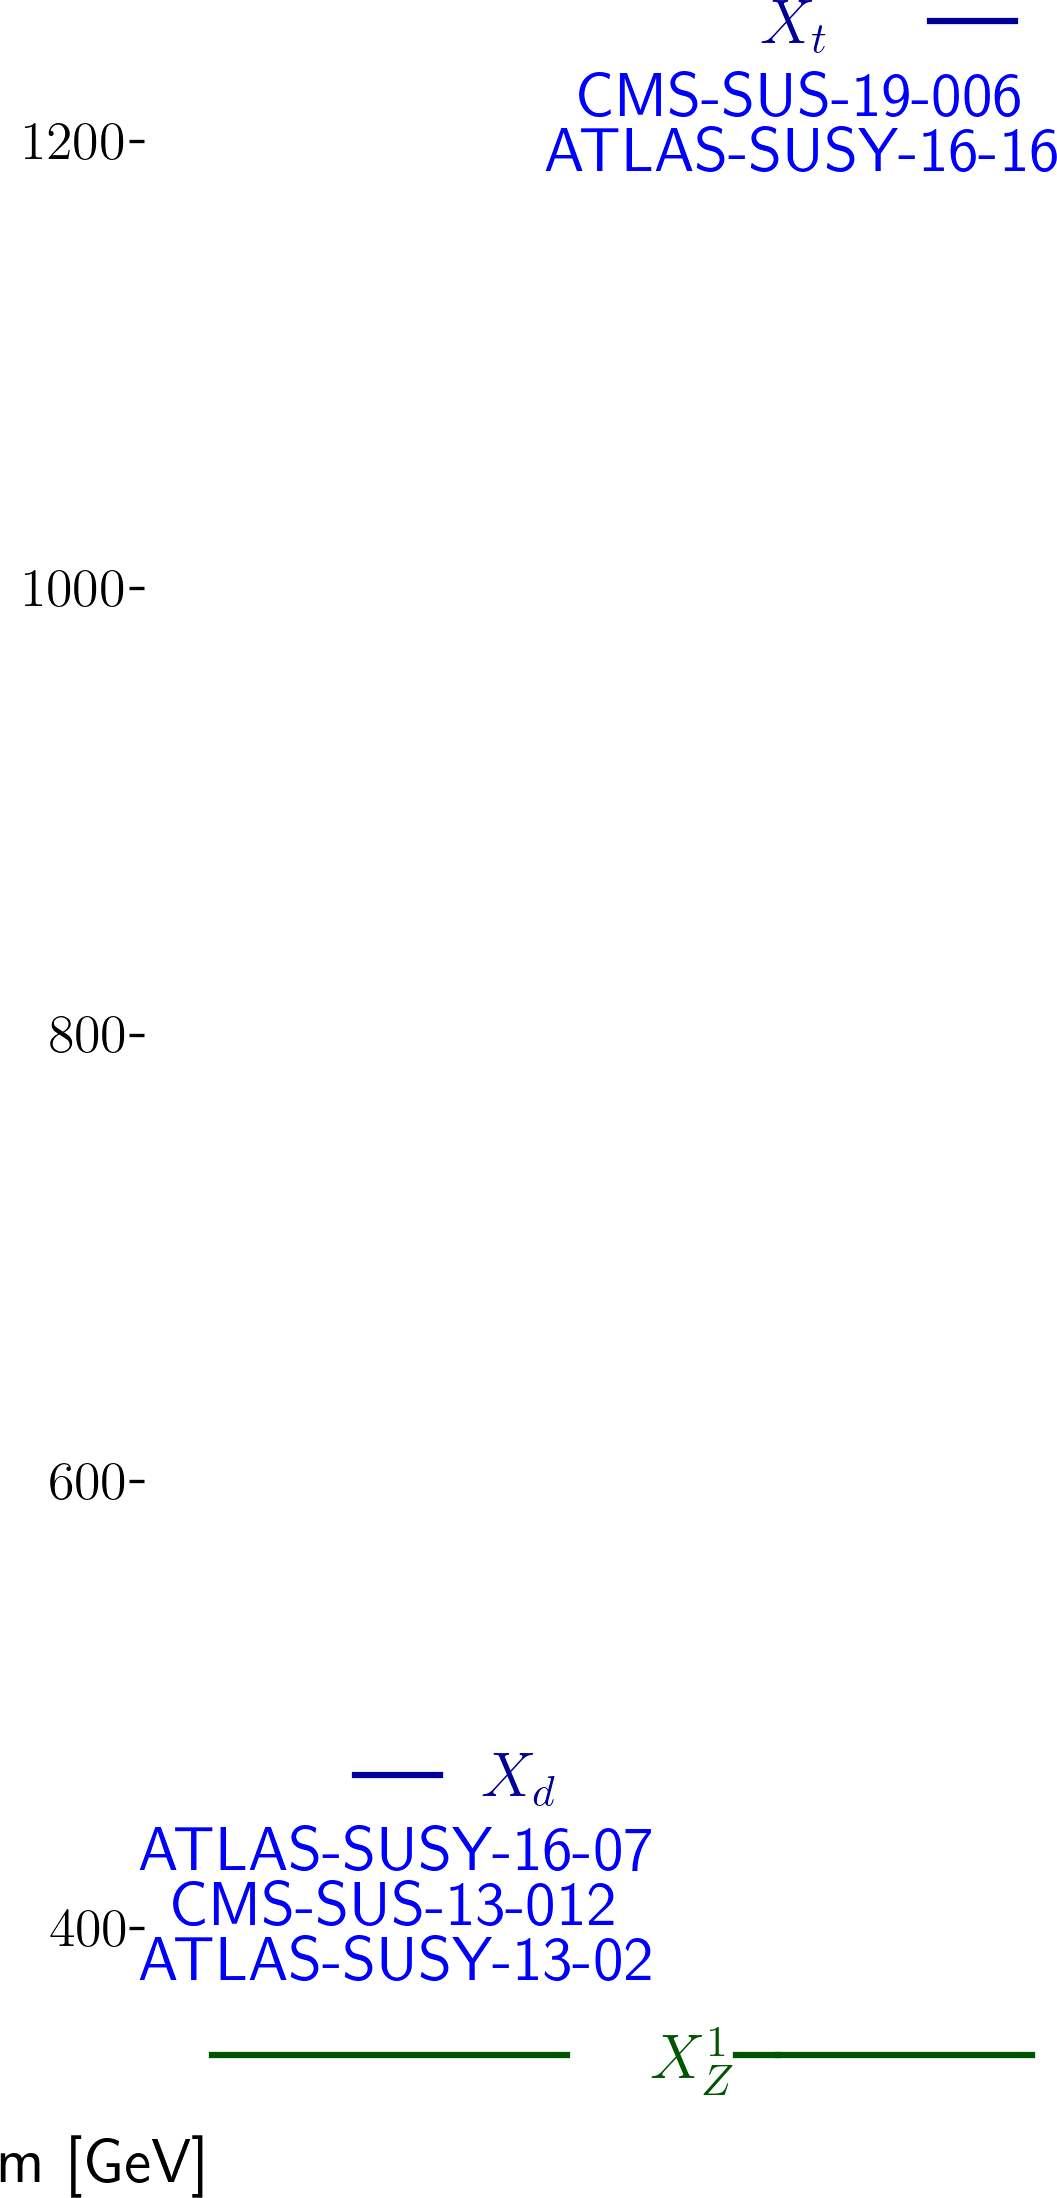
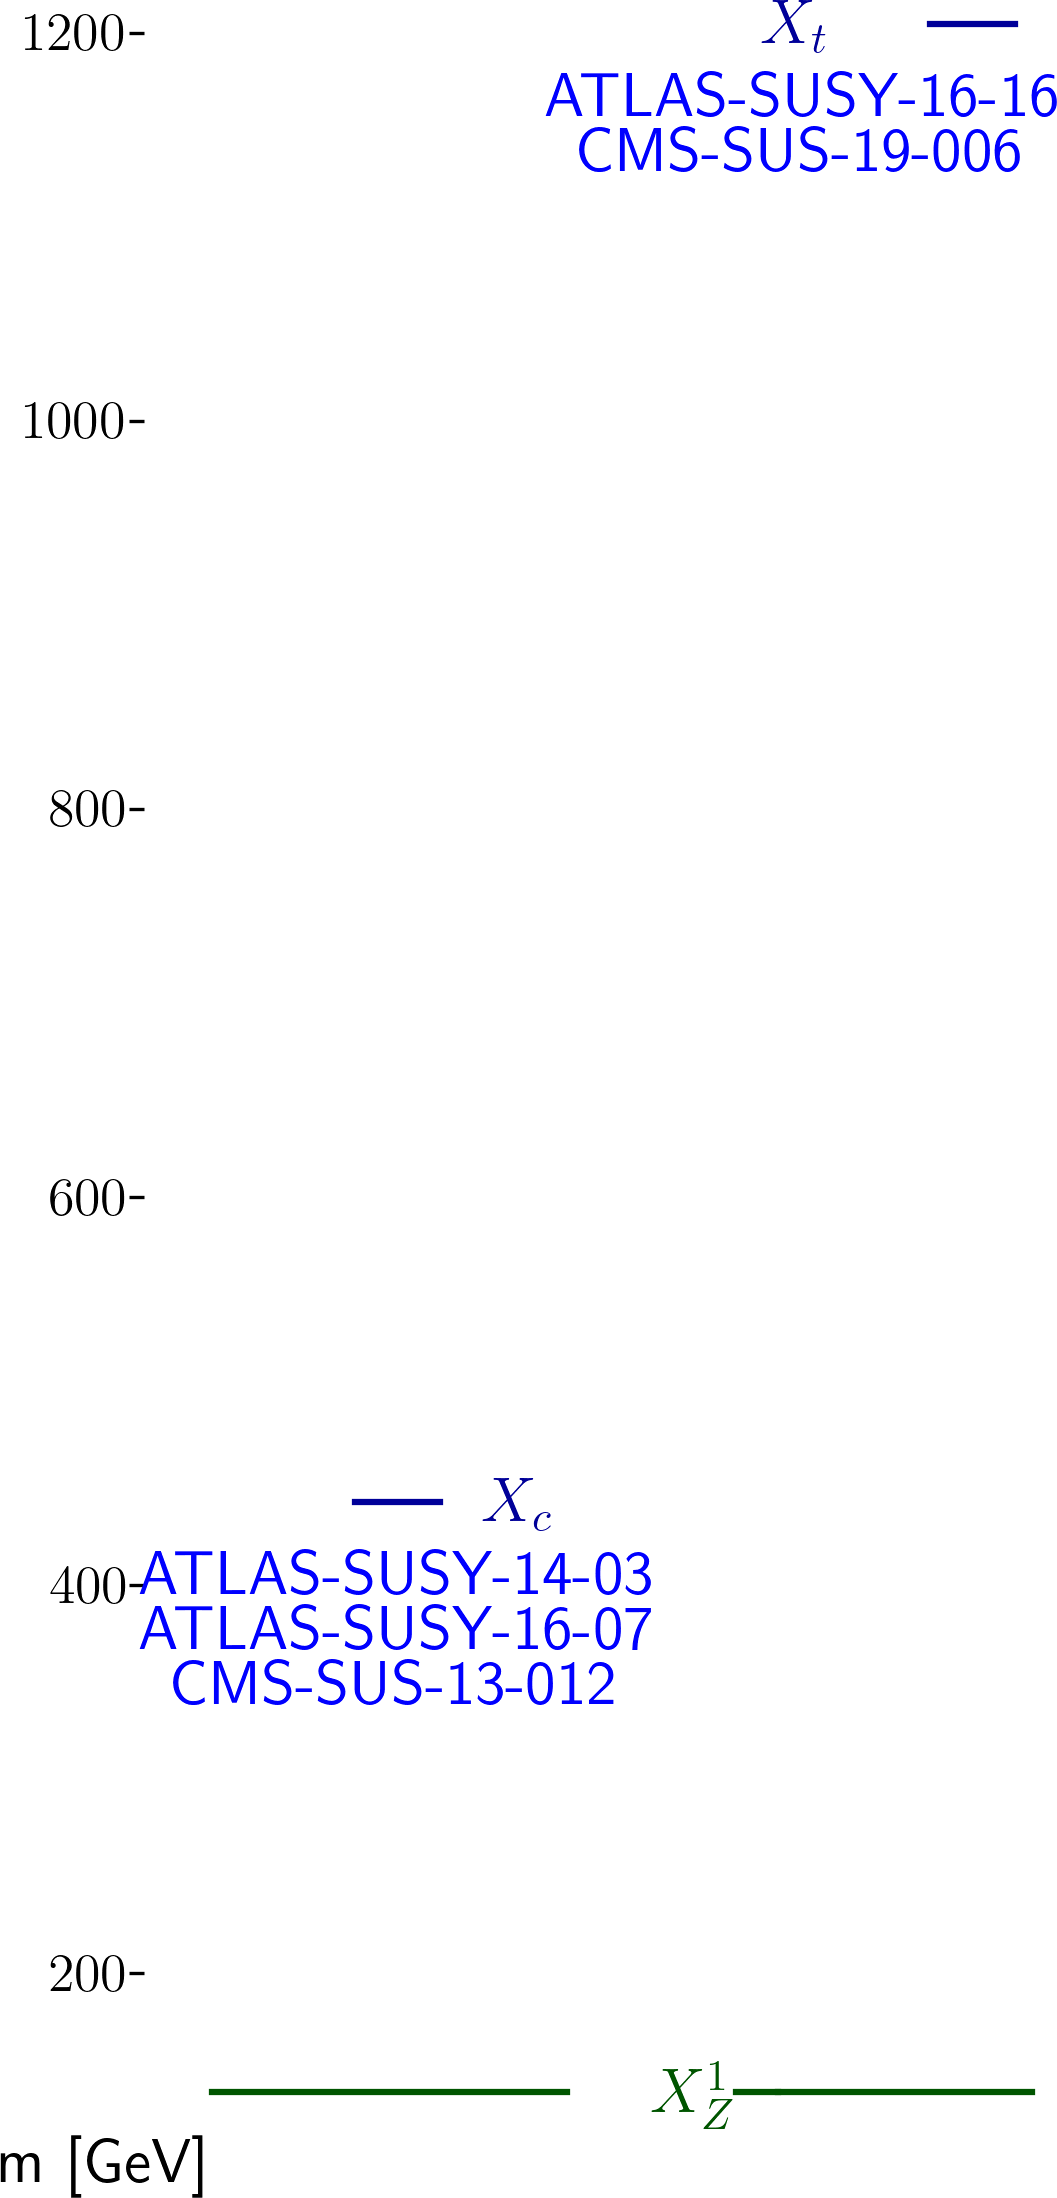
automated update by plotHiscore.py to /scratch-cbe/users/wolfgan.waltenberger/git/smodels.github.io/protomodels

diff --git a/protomodels/2020_PioneerStudy/closure_sampled10/index.html b/protomodels/2020_PioneerStudy/closure_sampled10/index.html
@@ -1,30 +1,30 @@
 <html>
 <body>
 <center>
-<table><td><h1>Current best protomodel: <i>K</i>=7.85</h1><td><img height=60px src=https://smodels.github.io/pics/banner.png></table>
+<table><td><h1>Current best protomodel: <i>K</i>=10.42</h1><td><img height=60px src=https://smodels.github.io/pics/banner.png></table>
 </center>
-<b><a href=./hiscore.slha>ProtoModel</a> <a href=./pmodel.py>(dict)</a> produced with <a href=https://smodels.github.io/docs/Validation124scaled10>database v1.2.4scaled10</a>, combination strategy <a href=./matrix_aggressive.png>aggressive</a> in walker 20 step 305.</b> <i>K</i> plots for: <a href=./M1000022.png?15051670>X<sub>Z</sub><sup>1</sup></a>, <a href=./M1000006.png?15051670>X<sub>t</sub></a>, <a href=./M1000001.png?15051670>X<sub>d</sub></a>. HPD plots for: <a href=./llhd1000006.png?15051670>X<sub>t</sub></a>, <a href=./llhd1000001.png?15051670>X<sub>d</sub></a>. SSM plots for: <a href=./ssm_-1000006_1000006.png?15051670>(x&#772;<sub>t</sub>,X<sub>t</sub>)</a><br>
+<b><a href=./hiscore.slha>ProtoModel</a> <a href=./pmodel.py>(dict)</a> produced with <a href=https://smodels.github.io/docs/Validation124scaled10>database v1.2.4scaled10</a>, combination strategy <a href=./matrix_aggressive.png>aggressive</a> in walker 40 step 575.</b> <i>K</i> plots for: <a href=./M1000022.png?15313475>X<sub>Z</sub><sup>1</sup></a>, <a href=./M1000006.png?15313475>X<sub>t</sub></a>, <a href=./M1000004.png?15313475>X<sub>c</sub></a>. HPD plots for: <a href=./llhd1000006.png?15313475>X<sub>t</sub></a>, <a href=./llhd1000004.png?15313475>X<sub>c</sub></a>. SSM plots for: <a href=./ssm_-1000006_1000006.png?15313475>(x&#772;<sub>t</sub>,X<sub>t</sub>)</a><br>
 <table width=80%>
 <tr><td>
-<br><b>14 predictions available. Highest r values are:</b><br><ul>
-<li><a href=http://cms-results.web.cern.ch/cms-results/public-results/publications/SUS-16-033/index.html>CMS-SUS-16-033</a>:T2 r=1.30, r<sub>exp</sub>=1.54<br>
-<li><a href=http://cms-results.web.cern.ch/cms-results/public-results/publications/SUS-16-049/index.html>CMS-SUS-16-049</a>:T2tt r=1.18, r<sub>exp</sub>=1.02<br>
-<li><a href=https://atlas.web.cern.ch/Atlas/GROUPS/PHYSICS/PAPERS/SUSY-2016-07/>ATLAS-SUSY-2016-07</a>:T2 r=1.14, r<sub>exp</sub>=1.42<br>
-<li><a href=http://cms-results.web.cern.ch/cms-results/public-results/publications/SUS-16-036/index.html>CMS-SUS-16-036</a>:T2 r=1.01, r<sub>exp</sub>=0.98<br>
-<li><a href=http://cms-results.web.cern.ch/cms-results/public-results/publications/SUS-16-033/index.html>CMS-SUS-16-033</a>:T2,T2tt r=0.81, r<sub>exp</sub>=1.37<br>
+<br><b>21 predictions available. Highest r values are:</b><br><ul>
+<li><a href=http://cms-results.web.cern.ch/cms-results/public-results/publications/SUS-16-033/index.html>CMS-SUS-16-033</a>:T2 r=1.30, r<sub>exp</sub>=1.13<br>
+<li><a href=http://cms-results.web.cern.ch/cms-results/public-results/publications/SUS-16-036/index.html>CMS-SUS-16-036</a>:T2 r=1.15, r<sub>exp</sub>=1.31<br>
+<li><a href=https://atlas.web.cern.ch/Atlas/GROUPS/PHYSICS/PAPERS/SUSY-2014-03/>ATLAS-SUSY-2014-03</a>:TScharm r=0.71, r<sub>exp</sub>=0.48<br>
+<li><a href=https://atlas.web.cern.ch/Atlas/GROUPS/PHYSICS/PAPERS/SUSY-2016-07/>ATLAS-SUSY-2016-07</a>:T2 r=0.67, r<sub>exp</sub>=1.03<br>
+<li><a href=https://atlas.web.cern.ch/Atlas/GROUPS/PHYSICS/PAPERS/SUSY-2016-26/>ATLAS-SUSY-2016-26</a>:T2cc r=0.60, r<sub>exp</sub>=N/A<br>
 </ul>
 <td><br><b>K values without analyses: (contribution)</b><br>
 <ul>
-<li> <a href=https://atlas.web.cern.ch/Atlas/GROUPS/PHYSICS/PAPERS/SUSY-2013-02/>ATLAS-SUSY-2013-02</a>: 3.47 (14%)
-<li> <a href=http://cms-results.web.cern.ch/cms-results/public-results/publications/SUS-19-006/index.html>CMS-SUS-19-006</a>: 2.63 (16%)
-<li> <a href=https://twiki.cern.ch/twiki/bin/view/CMSPublic/PhysicsResultsSUS13012>CMS-SUS-13-012</a>: 2.63 (16%)
-<li> <a href=https://atlas.web.cern.ch/Atlas/GROUPS/PHYSICS/PAPERS/SUSY-2016-07/>ATLAS-SUSY-2016-07</a>: -0.31 (25%)
-<li> <a href=https://atlas.web.cern.ch/Atlas/GROUPS/PHYSICS/PAPERS/SUSY-2016-16/>ATLAS-SUSY-2016-16</a>: -1.18 (28%)
-<td><img width=600px src=./texdoc.png?1608051670>
-<br><font size=-1>Last updated: Tue Dec 15 18:01:10 2020</font>
+<li> <a href=http://cms-results.web.cern.ch/cms-results/public-results/publications/SUS-19-006/index.html>CMS-SUS-19-006</a>: 6.81 (13%)
+<li> <a href=https://twiki.cern.ch/twiki/bin/view/CMSPublic/PhysicsResultsSUS13012>CMS-SUS-13-012</a>: 6.58 (14%)
+<li> <a href=https://atlas.web.cern.ch/Atlas/GROUPS/PHYSICS/PAPERS/SUSY-2016-16/>ATLAS-SUSY-2016-16</a>: 4.37 (21%)
+<li> <a href=https://atlas.web.cern.ch/Atlas/GROUPS/PHYSICS/PAPERS/SUSY-2016-07/>ATLAS-SUSY-2016-07</a>: 3.63 (24%)
+<li> <a href=https://atlas.web.cern.ch/Atlas/GROUPS/PHYSICS/PAPERS/SUSY-2014-03/>ATLAS-SUSY-2014-03</a>: 2.46 (28%)
+<td><img width=600px src=./texdoc.png?1608313475>
+<br><font size=-1>Last updated: Fri Dec 18 18:44:35 2020</font>
 </table><table style="width:80%">
-<td width=45%><img height=580px src=./ruler.png?1608051670><td width=55%><img height=380px src=./decays.png?1608051670>
-<font size=-3><iframe type="text/html" height="220px" width="100%s" frameborder="0" src="./rawnumbers.html?1608051670"></iframe></font>
+<td width=45%><img height=580px src=./ruler.png?1608313475><td width=55%><img height=380px src=./decays.png?1608313475>
+<font size=-3><iframe type="text/html" height="220px" width="100%s" frameborder="0" src="./rawnumbers.html?1608313475"></iframe></font>
 </table>
 </body>
 </html>

diff --git a/protomodels/2020_PioneerStudy/closure_sampled10/rawnumbers.html b/protomodels/2020_PioneerStudy/closure_sampled10/rawnumbers.html
@@ -1,9 +1,9 @@
 <table>
 <tr><th>Analysis Name</th><th>Type</th><th>Dataset</th><th>Topos</th><th>Observed</th><th>Expected</th><th>Approx &sigma;</th><th>Particles</th><th>Signal</th>
 </tr>
-<tr><td><a href=https://atlas.web.cern.ch/Atlas/GROUPS/PHYSICS/PAPERS/SUSY-2013-02/>ATLAS-SUSY-2013-02</a></td><td>em</td> <td>SR6jtp</td><td>T2</td><td>2</td><td>4.9 +/- 1.6</td><td style="text-align:right">-1.1 &sigma;</td><td style="text-align:right">X<sub>d</sub></td><td style="text-align:right">0</td></tr>
-<tr><td><a href=https://atlas.web.cern.ch/Atlas/GROUPS/PHYSICS/PAPERS/SUSY-2016-07/>ATLAS-SUSY-2016-07</a></td><td>em</td> <td>2j_Meff_1200</td><td>T2</td><td>599</td><td>526 +/- 31</td><td style="text-align:right">1.9 &sigma;</td><td style="text-align:right">X<sub>d</sub></td><td style="text-align:right">40</td></tr>
-<tr><td><a href=https://atlas.web.cern.ch/Atlas/GROUPS/PHYSICS/PAPERS/SUSY-2016-16/>ATLAS-SUSY-2016-16</a></td><td>em</td> <td>tN_high</td><td>T2tt</td><td>9</td><td>3.8 +/- 1</td><td style="text-align:right">2.4 &sigma;</td><td style="text-align:right">X<sub>t</sub></td><td style="text-align:right">5</td></tr>
-<tr><td><a href=https://twiki.cern.ch/twiki/bin/view/CMSPublic/PhysicsResultsSUS13012>CMS-SUS-13-012</a></td><td>ul</td> <td>-</td><td>T2</td><td> 1077.9 fb </td><td> 850.1 fb</td><td style="text-align:right">0.5 &sigma;</td><td style="text-align:right">X<sub>d</sub></td><td style="text-align:right">2.66 fb</td></tr>
-<tr><td><a href=http://cms-results.web.cern.ch/cms-results/public-results/publications/SUS-19-006/index.html>CMS-SUS-19-006</a></td><td>ul</td> <td>-</td><td>T2tt</td><td> 4.6 fb </td><td> 2.0 fb</td><td style="text-align:right">2.6 &sigma;</td><td style="text-align:right">X<sub>t</sub></td><td style="text-align:right">2.62 fb</td></tr>
+<tr><td><a href=https://atlas.web.cern.ch/Atlas/GROUPS/PHYSICS/PAPERS/SUSY-2014-03/>ATLAS-SUSY-2014-03</a></td><td>em</td> <td>mCT200</td><td>TScharm</td><td>28</td><td>16 +/- 3</td><td style="text-align:right">2.4 &sigma;</td><td style="text-align:right">X<sub>c</sub></td><td style="text-align:right">-</td></tr>
+<tr><td><a href=https://atlas.web.cern.ch/Atlas/GROUPS/PHYSICS/PAPERS/SUSY-2016-07/>ATLAS-SUSY-2016-07</a></td><td>em</td> <td>5j_Meff_2000</td><td>T2</td><td>85</td><td>65 +/- 7</td><td style="text-align:right">1.9 &sigma;</td><td style="text-align:right">X<sub>c</sub></td><td style="text-align:right">13</td></tr>
+<tr><td><a href=https://atlas.web.cern.ch/Atlas/GROUPS/PHYSICS/PAPERS/SUSY-2016-16/>ATLAS-SUSY-2016-16</a></td><td>em</td> <td>tN_high</td><td>T2tt</td><td>8</td><td>3.8 +/- 1</td><td style="text-align:right">1.9 &sigma;</td><td style="text-align:right">X<sub>t</sub></td><td style="text-align:right">4</td></tr>
+<tr><td><a href=https://twiki.cern.ch/twiki/bin/view/CMSPublic/PhysicsResultsSUS13012>CMS-SUS-13-012</a></td><td>em</td> <td>6NJet8_500HT800 ...</td><td>T2</td><td>5</td><td>0.8 +/- 3.3</td><td style="text-align:right">1.2 &sigma;</td><td style="text-align:right">X<sub>c</sub></td><td style="text-align:right">0</td></tr>
+<tr><td><a href=http://cms-results.web.cern.ch/cms-results/public-results/publications/SUS-19-006/index.html>CMS-SUS-19-006</a></td><td>ul</td> <td>-</td><td>T2tt</td><td> 4.6 fb </td><td> 1.9 fb</td><td style="text-align:right">2.6 &sigma;</td><td style="text-align:right">X<sub>t</sub></td><td style="text-align:right">2.62 fb</td></tr>
 </table>

diff --git a/protomodels/2020_PioneerStudy/closure_sampled10/pmodel.py b/protomodels/2020_PioneerStudy/closure_sampled10/pmodel.py
@@ -1,1 +1,1 @@
-{'masses': {1000022: 333.038, 1000006: 1243.84, 1000001: 458.683}, 'ssmultipliers': {(1000022, 1000022): 0.0, (1000006, 1000006): 1.943, (-1000006, 1000006): 1.78, (-1000006, -1000006): 1.78, (1000006, 1000022): 0.0, (-1000006, 1000022): 1.821, (1000001, 1000001): 0.914, (-1000001, 1000001): 0.914, (-1000001, -1000001): 0.914, (1000001, 1000022): 0.914, (-1000001, 1000022): 0.914, (1000001, 1000006): 0.914, (-1000001, 1000006): 0.914, (-1000006, 1000001): 0.914, (-1000006, -1000001): 0.914}, 'decays': {1000022: {}, 1000006: {(1000022, 6): 1.0}, 1000001: {(1000022, 1): 1.0}}, 'timestamp': 'Tue Dec 15 18:01:02 2020', 'Z': 3.376, 'K': 7.849, 'walkerid': 20, 'step': 305, 'codever': '1.0', 'dbver': '1.2.4scaled10'}
+{'masses': {1000022: 128.571, 1000004: 432.466, 1000006: 1194.395}, 'ssmultipliers': {(1000022, 1000022): 0.001, (1000004, 1000004): 0.297, (-1000004, 1000004): 0.297, (-1000004, -1000004): 0.297, (1000004, 1000022): 0.297, (-1000004, 1000022): 0.297, (1000006, 1000006): 0.999, (-1000006, 1000006): 0.999, (-1000006, -1000006): 0.999, (1000006, 1000022): 0.999, (-1000006, 1000022): 0.999, (1000004, 1000006): 0.999, (-1000006, 1000004): 0.999, (-1000004, 1000006): 0.999, (-1000006, -1000004): 0.999}, 'decays': {1000022: {}, 1000004: {(1000022, 4): 1.0}, 1000006: {(1000022, 6): 1.0}}, 'timestamp': 'Fri Dec 18 18:44:24 2020', 'Z': 3.737, 'K': 10.417, 'walkerid': 40, 'step': 575, 'codever': '1.0', 'dbver': '1.2.4scaled10'}
